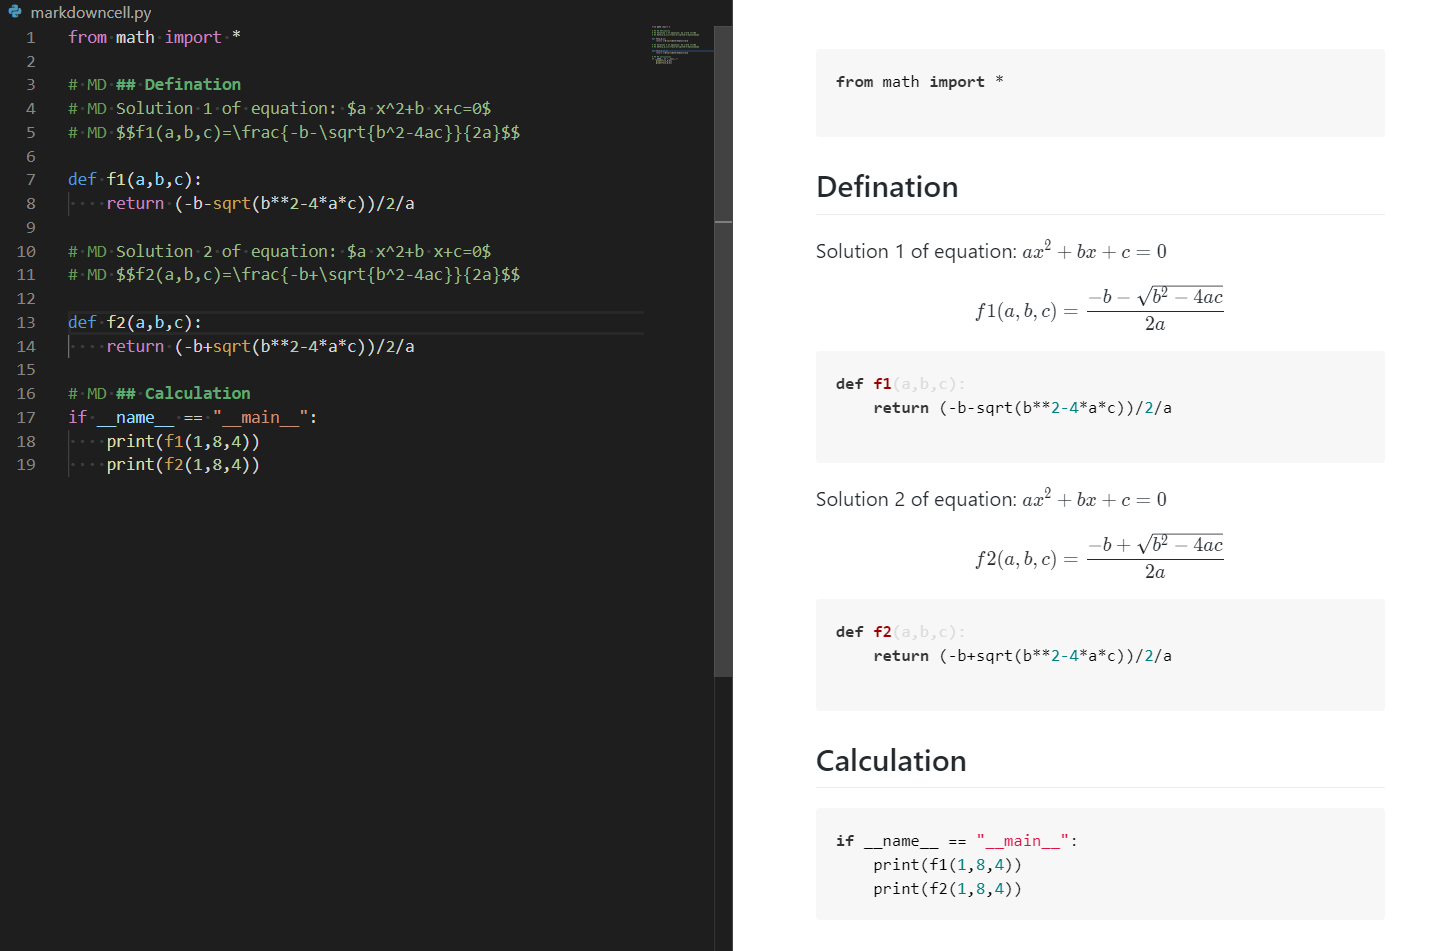
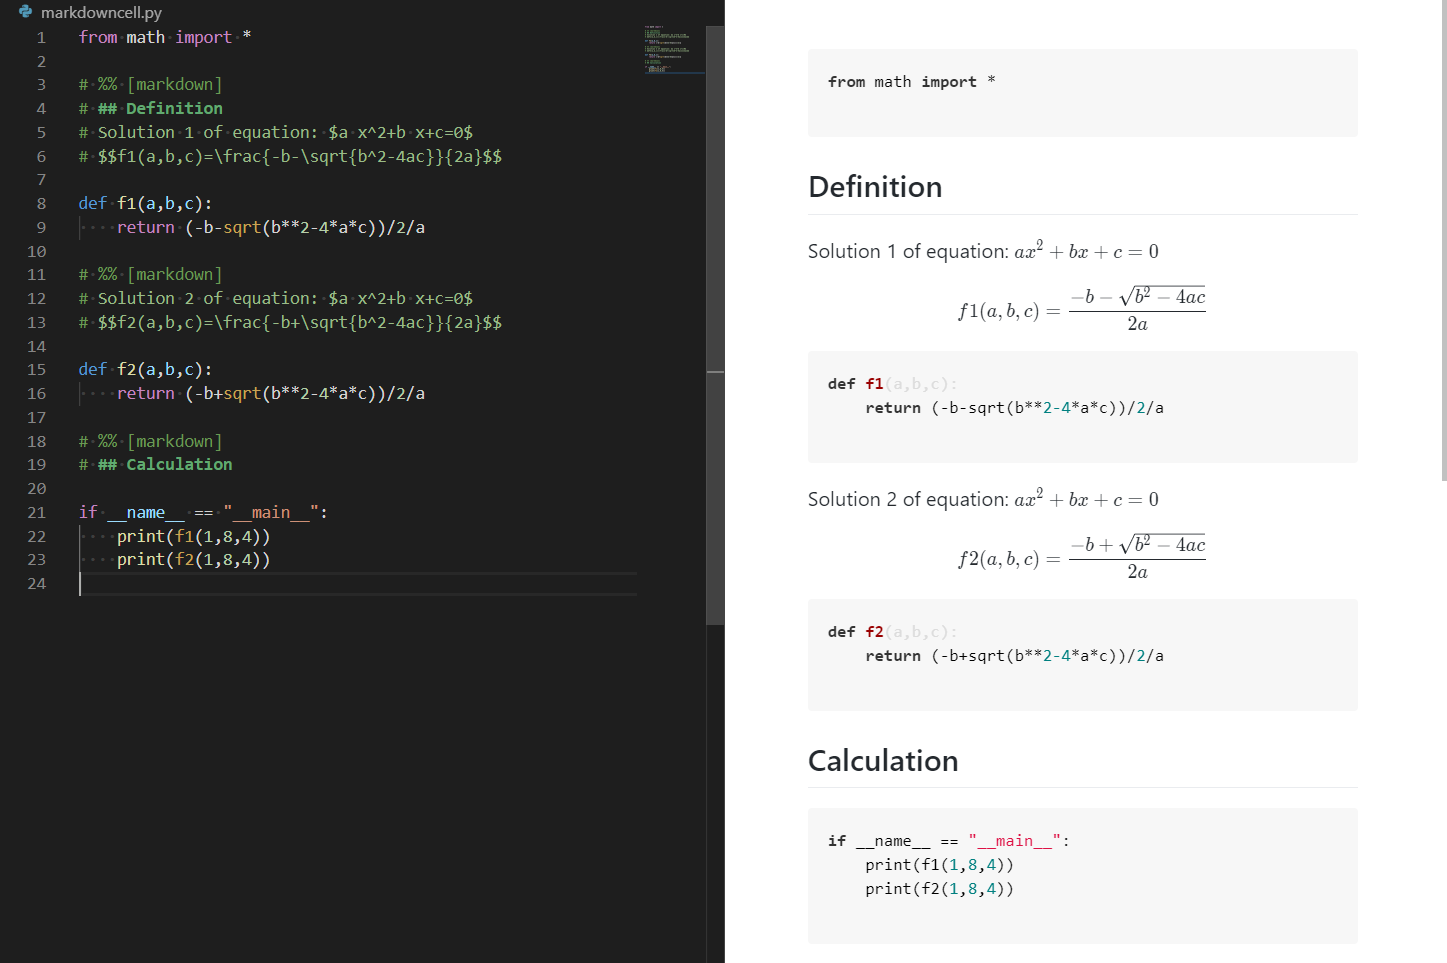
fix spelling error

diff --git a/README.md b/README.md
@@ -1,6 +1,8 @@
 # Markdown Everywhere
 
-Embed and highlight and **preview** markdown everywhere.
+Embed and highlight and **preview** markdown in any language which support line-comment or block-comment for vscode.
+
+e.g. Highlight python markdown cell/ Highlight julia markdown doc string
 
 `Embed & Highlight`  
 ![](img_md/highlight-python.png)  
@@ -18,7 +20,7 @@ Three mode
 + `ignored`: ignore source code part  
 + `fenced`: keep source code as fenced code  
 
-`spliter` Help organize information  
+`splitter` Help organize information  
 ![](img_md/spliter-preview.png)
 `ignored`  
 ![](img_md/ignore-preview.png)

diff --git a/CHANGELOG.md b/CHANGELOG.md
@@ -1,5 +1,10 @@
 # Change Log
 
+## 0.0.6 (2020-08-15)
+
+fix spelling error  
+update document  
+
 ## 0.0.5 (2020-08-14)
 
 fix bug in "Build Rules"
